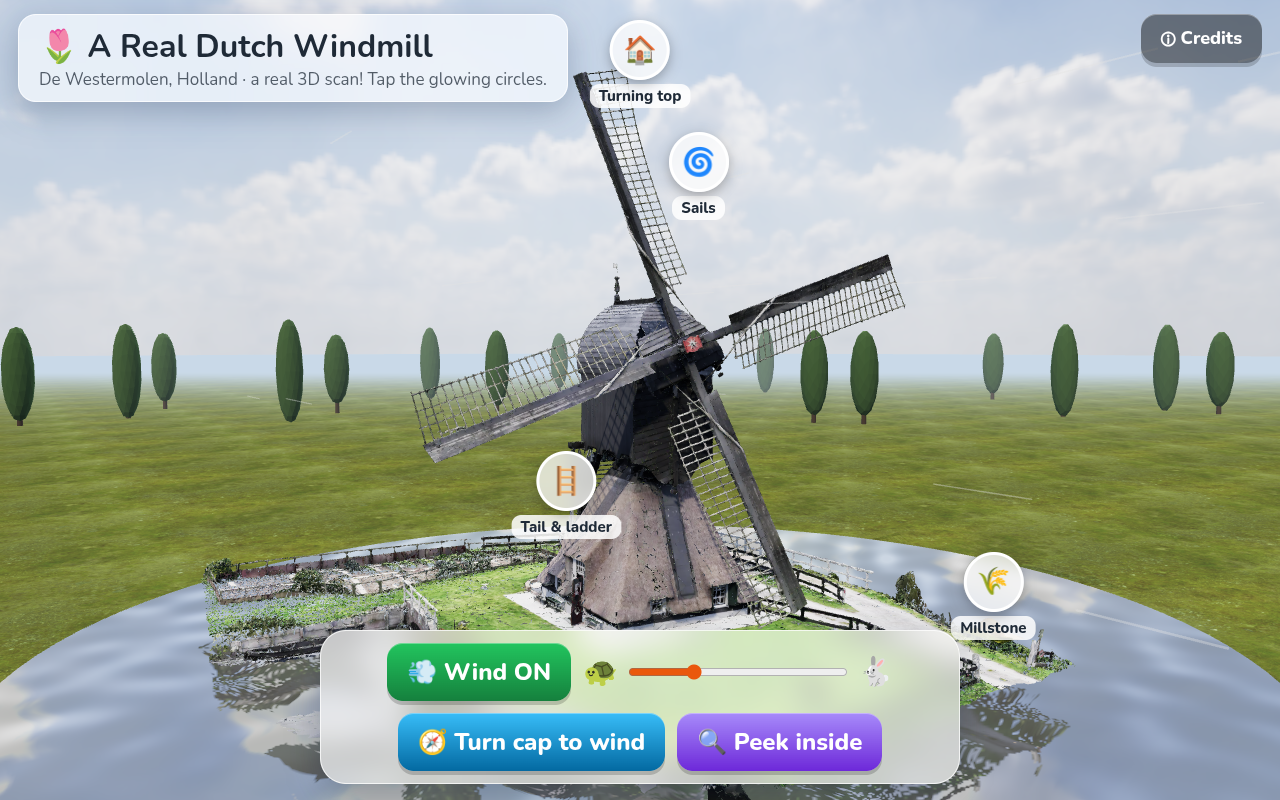
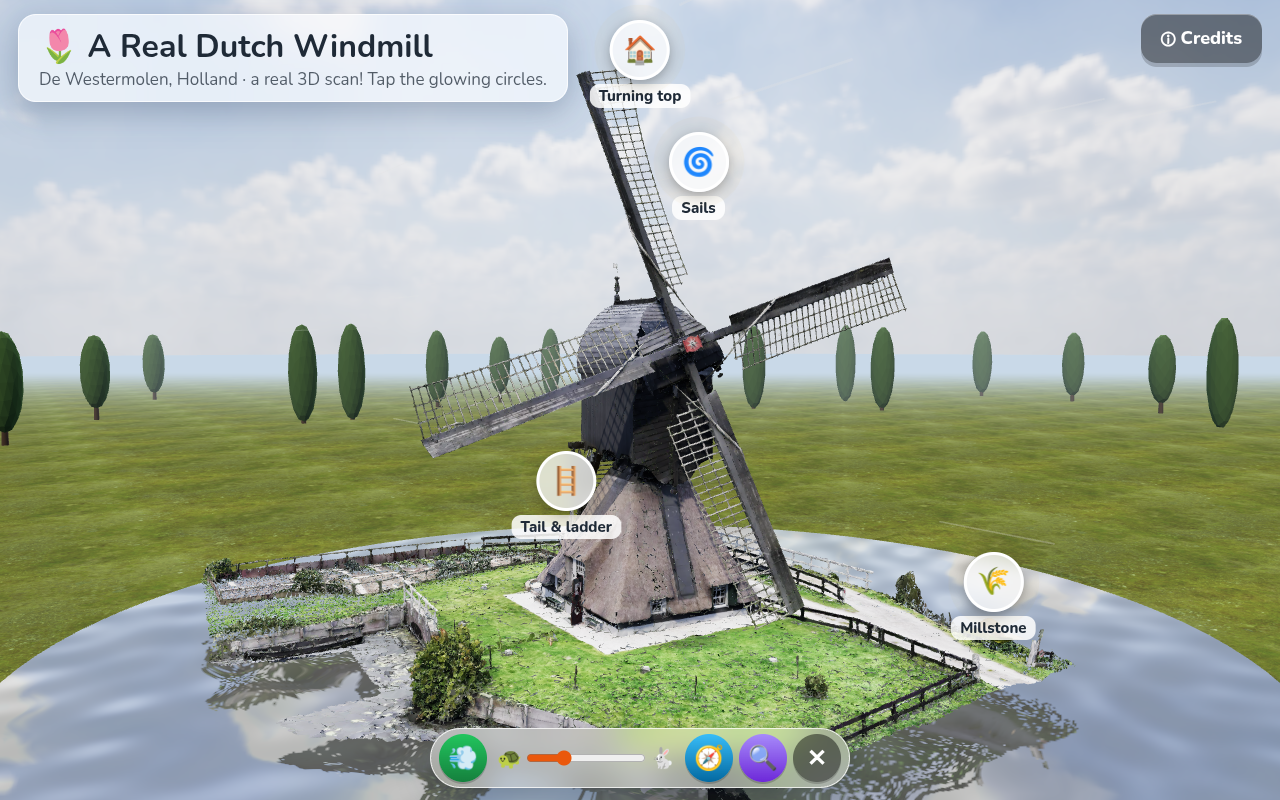
Compact collapsible toolbar for windmill

diff --git a/windmill/index.html b/windmill/index.html
@@ -9,14 +9,20 @@ html,body{margin:0;height:100%;overflow:hidden;font-family:"Nunito","Avenir Next
 .glass{background:var(--glass);backdrop-filter:blur(14px) saturate(1.4);-webkit-backdrop-filter:blur(14px) saturate(1.4);border:1px solid rgba(255,255,255,.75);box-shadow:0 10px 30px rgba(20,40,70,.25)}
 #title{position:fixed;top:14px;left:18px;padding:10px 20px;border-radius:18px;pointer-events:none}
 #title b{display:block;font-size:clamp(20px,2.6vw,32px)}#title span{font-size:clamp(13px,1.4vw,17px);opacity:.75}
-#bar{position:fixed;bottom:16px;left:50%;transform:translateX(-50%);display:flex;gap:12px;flex-wrap:wrap;justify-content:center;align-items:center;padding:12px 16px;border-radius:26px;max-width:94vw;z-index:3}
+#bar{position:fixed;bottom:12px;left:50%;transform:translateX(-50%);display:flex;gap:6px;align-items:center;padding:5px 8px;border-radius:999px;z-index:3;background:rgba(255,255,255,.45)}
+#bar.min>*:not(#tog){display:none}
+#bar .ib{width:48px;height:48px;min-height:0;padding:0;border-radius:50%;font-size:24px;display:flex;align-items:center;justify-content:center;position:relative;box-shadow:0 2px 0 rgba(0,0,0,.18)}
+#bar .ib::after{content:attr(data-tip);position:absolute;bottom:56px;left:50%;transform:translateX(-50%);white-space:nowrap;font-size:14px;background:rgba(0,0,0,.7);color:#fff;padding:3px 8px;border-radius:8px;opacity:0;pointer-events:none;transition:opacity .15s}
+#bar .ib:hover::after,#bar .ib:focus-visible::after{opacity:1}
+#tog{background:rgba(0,0,0,.45)}
+@media (min-width:1600px){#bar .ib{width:60px;height:60px;font-size:30px}#bar input[type=range]{width:min(22vw,120px);height:36px;accent-color:#ea580c}}
 button{font:inherit;font-weight:800;font-size:clamp(17px,2vw,24px);padding:12px 20px;border:none;border-radius:16px;cursor:pointer;color:#fff;min-height:58px;box-shadow:0 4px 0 rgba(0,0,0,.18),inset 0 1px 0 rgba(255,255,255,.35)}
 button:active{transform:translateY(2px)}
 #wind{background:linear-gradient(#22c55e,#15803d)}#wind.off{background:linear-gradient(#f87171,#b91c1c)}
 #peek{background:linear-gradient(#a78bfa,#6d28d9)}#turn{background:linear-gradient(#38bdf8,#0369a1)}
 #credBtn{position:fixed;top:14px;right:18px;background:rgba(0,0,0,.45);min-height:48px;font-size:18px;z-index:3}
-label{font-size:clamp(20px,2.2vw,28px);display:flex;align-items:center;gap:8px}
-input[type=range]{width:min(28vw,220px);height:44px;accent-color:#ea580c}
+label{font-size:20px;display:flex;align-items:center;gap:2px;padding:0 4px}
+input[type=range]{width:min(22vw,120px);height:36px;accent-color:#ea580c}
 .card{position:fixed;top:50%;left:50%;transform:translate(-50%,-50%);width:min(88vw,600px);border-radius:28px;padding:22px 26px 24px;font-size:clamp(22px,2.8vw,32px);line-height:1.4;display:none;z-index:5;background:rgba(255,255,255,.88)}
 .card.on{display:block}
 .card h2{margin:0 0 8px;color:var(--accent);font-size:1.15em;display:flex;align-items:center;gap:12px}
@@ -47,10 +53,11 @@ input[type=range]{width:min(28vw,220px);height:44px;accent-color:#ea580c}
 <p><b>Gears, shafts, water wheel, wind arrow, water and trees:</b> made in code for this page. Built with <a href="https://threejs.org" target="_blank">three.js</a> (MIT).</p>
 <p style="opacity:.75">Note: the inside gears are a simple drawing of how a mill like this works; the scan only shows the outside.</p></div>
 <div id="bar" class="glass">
-<button id="wind">💨 Wind ON</button>
-<label>🐢<input id="spd" type="range" min="0.2" max="3" step="0.1" value="1">🐇</label>
-<button id="turn">🧭 Turn cap to wind</button>
-<button id="peek">🔍 Peek inside</button>
+<button id="wind" class="ib" data-tip="Wind on/off" aria-label="Wind on/off">💨</button>
+<label title="Wind speed">🐢<input id="spd" type="range" min="0.2" max="3" step="0.1" value="1" aria-label="Wind speed">🐇</label>
+<button id="turn" class="ib" data-tip="Turn to wind" aria-label="Turn cap to wind">🧭</button>
+<button id="peek" class="ib" data-tip="Peek inside" aria-label="Peek inside">🔍</button>
+<button id="tog" class="ib" data-tip="Hide buttons" aria-label="Hide or show buttons">✕</button>
 </div>
 <div id="hsl"></div>
 <script>window.onerror=(m)=>{const e=document.createElement('div');e.id='err';e.textContent='Error: '+m;document.body.appendChild(e)};
@@ -160,13 +167,14 @@ function placeArrow(){const f=fromVec(windAng);arrow.position.copy(f.clone().mul
 // ---- clipping for peek ----
 const cp1=new THREE.Plane(),cp2=new THREE.Plane(new THREE.Vector3(0,-1,0),1.0),cp3=new THREE.Plane();
 function setPeek(v){peek=v;inside.visible=lower.visible=runner.visible=parts.visible=v;shellMats.forEach(m=>{m.clippingPlanes=v?[cp1,cp2,cp3]:null;m.clipIntersection=true;m.clipShadows=true;m.needsUpdate=true});
- $('peek').textContent=v?'🏠 Close up':'🔍 Peek inside';refreshHS()}
+ $('peek').textContent=v?'🏠':'🔍';$('peek').dataset.tip=v?'Close up':'Peek inside';refreshHS()}
 const $=id=>document.getElementById(id);
-$('wind').onclick=()=>{windOn=!windOn;$('wind').textContent=windOn?'💨 Wind ON':'🍃 Wind OFF';$('wind').classList.toggle('off',!windOn)};
+$('wind').onclick=()=>{windOn=!windOn;$('wind').textContent=windOn?'💨':'🍃';$('wind').dataset.tip=windOn?'Wind is ON':'Wind is OFF';$('wind').classList.toggle('off',!windOn)};
 $('spd').oninput=e=>spd=+e.target.value;$('peek').onclick=()=>setPeek(!peek);
 $('turn').onclick=()=>{windAng+=(Math.PI/2)*(1+Math.floor(Math.random()*2));placeArrow();show('🧭','The Wind Changed!','Uh-oh, the wind moved! Watch the miller push the long tail to turn the top of the mill, so the sails face the wind again.');setTimeout(()=>capTarget=windAng,1200)};
 function show(e,h,b){$('ch').innerHTML='<span>'+e+'</span>'+h;$('cb').textContent=b;$('card').classList.add('on')}
 document.querySelectorAll('[data-close]').forEach(b=>b.onclick=()=>b.parentNode.classList.remove('on'));
+$('tog').onclick=()=>{const b=$('bar'),m=b.classList.toggle('min');$('tog').textContent=m?'🎛':'✕';$('tog').dataset.tip=m?'Show buttons':'Hide buttons'};
 $('credBtn').onclick=()=>$('credits').classList.add('on');
 const HS=[
  {e:'🌀',w:'Sails',obj:Sails,off:[0,7,0],h:'The Sails',t:'Four big sails catch the wind. The wind pushes them, and they spin round and round!'},
@@ -183,8 +191,8 @@ const hsl=$('hsl');
 HS.forEach(h=>{const d=document.createElement('div');d.className='hs';d.innerHTML='<i>'+h.e+'</i><s>'+h.w+'</s>';d.addEventListener('pointerup',ev=>{ev.stopPropagation();show(h.e,h.h,h.t)});hsl.appendChild(d);h.el=d});
 function refreshHS(){HS.forEach(h=>h.el.classList.toggle('hide',!!h.inside&&!peek))}refreshHS();
 const v=new THREE.Vector3();
-function updHS(){HS.forEach(h=>{if(h.inside&&!peek)return;if(h.local){v.set(...h.local);h.obj.localToWorld(v)}else{h.obj.getWorldPosition(v);v.x+=h.off[0];v.y+=h.off[1];v.z+=h.off[2]}v.project(cam);
- const vis=v.z<1&&Math.abs(v.x)<1.05&&Math.abs(v.y)<1.05;h.el.style.display=vis?'':'none';h.el.style.left=((v.x+1)/2*innerWidth)+'px';h.el.style.top=((1-v.y)/2*innerHeight)+'px'})}
+function updHS(){const br=$('bar').getBoundingClientRect();HS.forEach(h=>{if(h.inside&&!peek)return;if(h.local){v.set(...h.local);h.obj.localToWorld(v)}else{h.obj.getWorldPosition(v);v.x+=h.off[0];v.y+=h.off[1];v.z+=h.off[2]}v.project(cam);
+ const vis=v.z<1&&Math.abs(v.x)<1.05&&Math.abs(v.y)<1.05;h.el.style.display=vis?'':'none';let X=(v.x+1)/2*innerWidth,Y=(1-v.y)/2*innerHeight;if(X>br.left-34&&X<br.right+34&&Y>br.top-40)Y=br.top-44;h.el.style.left=X+'px';h.el.style.top=Y+'px'})}
 function resize(){R.setSize(innerWidth,innerHeight,false);cam.aspect=innerWidth/innerHeight;cam.fov=cam.aspect<1?60:45;cam.updateProjectionMatrix()}
 addEventListener('resize',resize);resize();
 window.__cam=(p,t)=>{cam.position.set(...p);ctl.target.set(...t);ctl.update()};window.__peek=setPeek;
